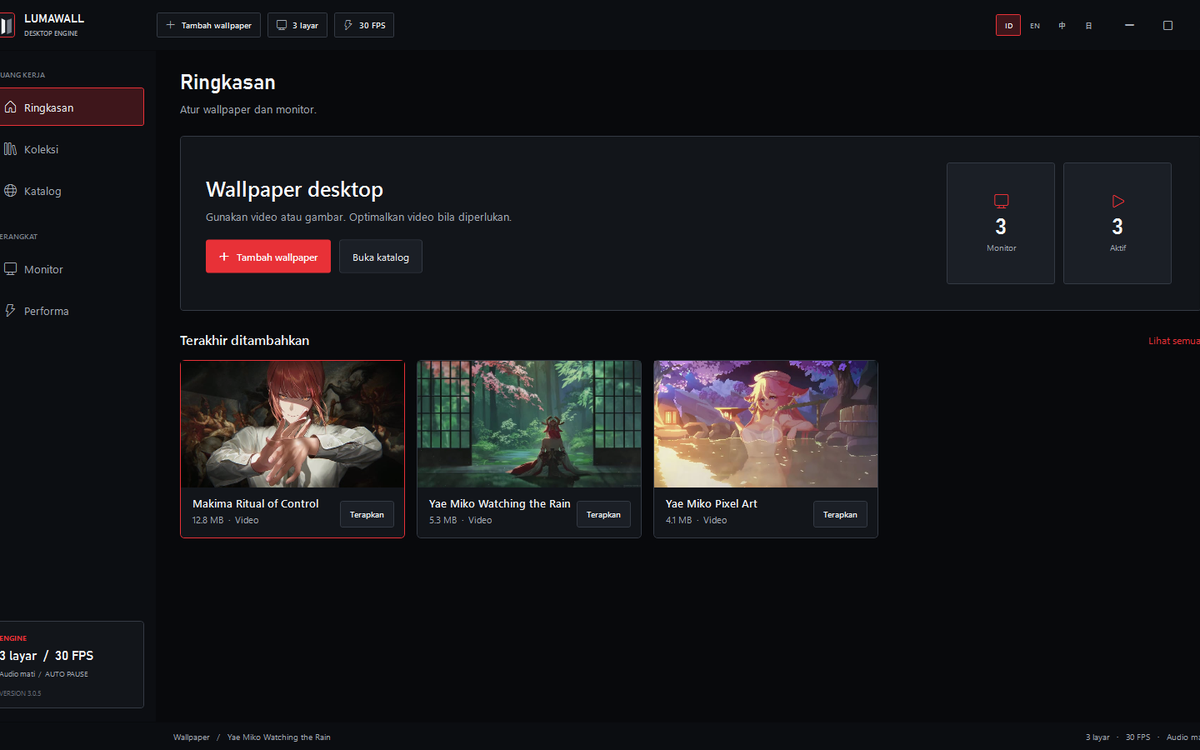
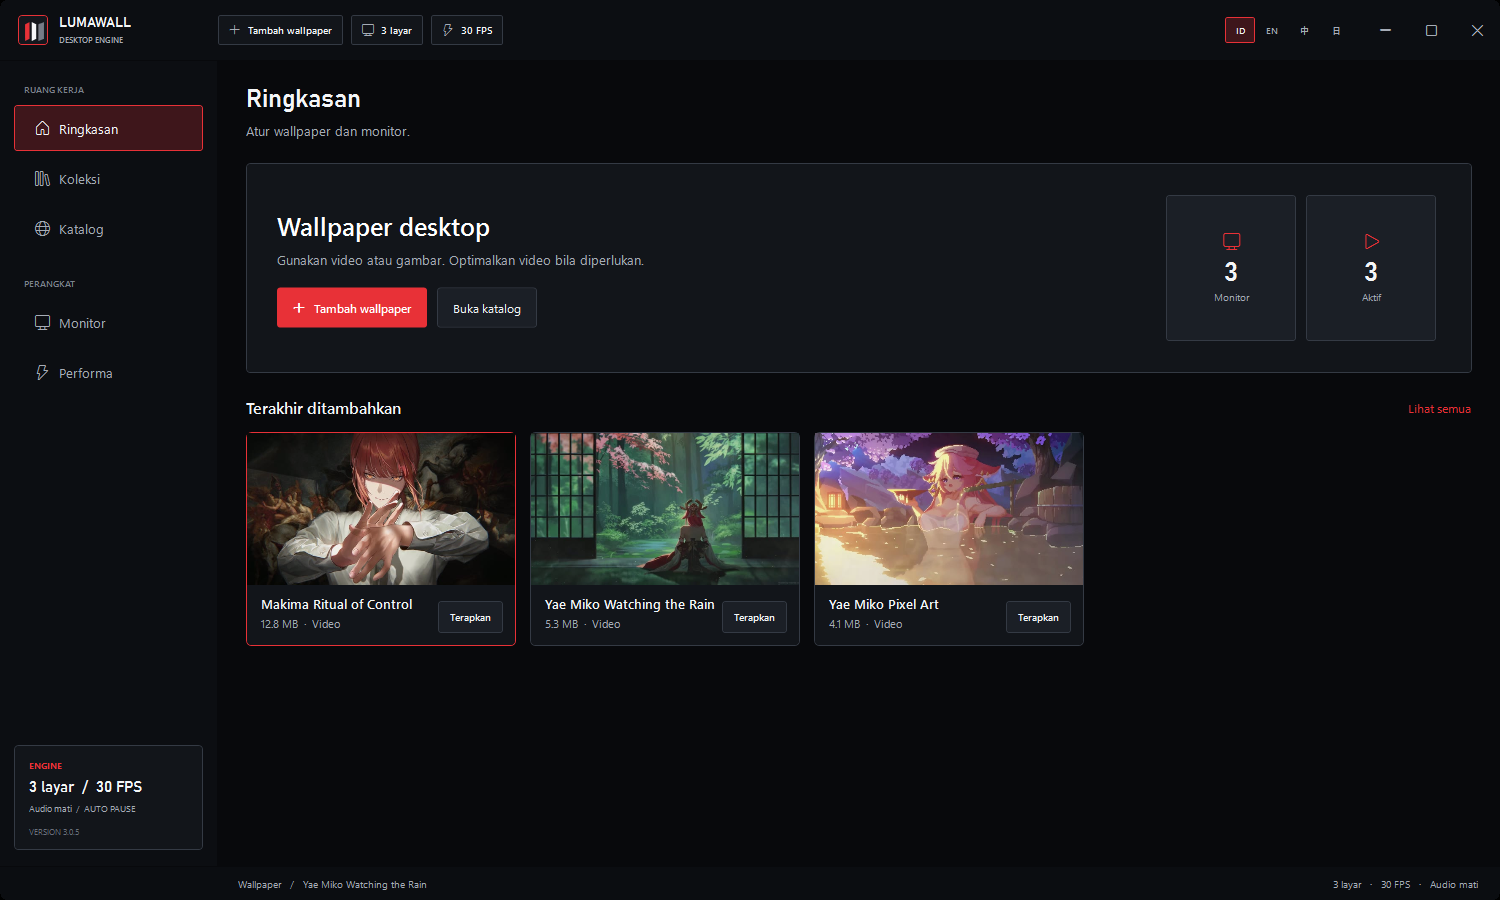
Open products at the top instantly, and fix the LumaWall capture's crop and softness
Two reports, both real, with separate causes.

1. "Opening a product scrolls from bottom to top"

`html { scroll-behavior: smooth }` in globals.css was a global default that
nothing used. Every scroll this site performs already names its own behaviour:
ScrollLink and PendingScroll both call
`scrollIntoView({ behavior: reduce ? "auto" : "smooth" })`. So the only scrolls
the rule affected were ones nobody wrote, and the one that mattered is the scroll
position reset the router performs on a client-side navigation. Measured: opening
a product while scrolled to 5200 animated that reset back to 0 over about 2.6
seconds, through 29 distinct positions in 30 frames — which is exactly the
"scrolls from bottom to top" the user saw.

Removed. The reset is now instantaneous (1-2 distinct positions, landing at 0) on
all five products, and deliberate smooth scrolling still works: clicking an
in-page anchor still animates through 39 positions to its target.

2. "The LumaWall capture is still cropped and low resolution"

Two independent faults in one image.

CROPPED. The capture was 1500x900 (ratio 1.667) and I had forced it into the
1200x750 (1.6) the other tiles use, by scaling to cover and centre-cropping. That
cut 4% off both sides, and measuring the content bounds confirmed the app's left
and right edges were being sliced. Everywhere else on this site the rule is
`object-contain` so product UI is never cut, so this one file was breaking the
[…]

diff --git a/src/components/projects/project-detail-view.tsx b/src/components/projects/project-detail-view.tsx
@@ -324,7 +324,12 @@ export function ProjectDetailView({
               </ScrollReveal>
             </div>
 
-            <div className={cn("grid gap-6", detail.gallery.length > 1 && "lg:grid-cols-2")}>
+            <div
+              className={cn(
+                "grid gap-6",
+                detail.gallery.length > 1 ? "lg:grid-cols-2" : "mx-auto max-w-3xl"
+              )}
+            >
               {detail.gallery.map((g, i) => (
                 <Reveal key={g.src} delay={i * 70}>
                   <SpotlightCard
@@ -336,10 +341,24 @@ export function ProjectDetailView({
                       alt={t(g.caption)}
                       title={product.shotTitle}
                       className="relative w-full"
-                      // Half the shell on desktop, full width on mobile. Saying
-                      // "560px" for a 92vw slot made Next request a 3840px
-                      // variant, which is both slow and wasteful.
-                      sizes="(max-width: 1024px) 92vw, 44vw"
+                      // Must match the real layout. The grid is only 2 columns
+                      // when there is more than one capture, so a lone capture
+                      // spans the full shell: measured 1104px wide against the
+                      // 634px that "44vw" claims. Describing it as 44vw made the
+                      // browser pick a candidate sized for the smaller box, and
+                      // the result was then upscaled to fit — visible as blur.
+                      //
+                      // Stated in px for the desktop case rather than vw, because
+                      // the shell is capped, so a wide viewport does not make the
+                      // card any wider than the cap.
+                      // The shell caps at 78rem (1248px) with an 80px gutter each
+                      // side, so content is 1088px, and the card's own padding
+                      // takes 20px twice -> the image paints 1044px wide.
+                      sizes={
+                        detail.gallery.length > 1
+                          ? "(max-width: 1024px) 92vw, (max-width: 1280px) 45vw, 502px"
+                          : "(max-width: 1024px) 92vw, 728px"
+                      }
                       // 95, not the default 75 — Next re-encodes at the
                       // requested quality, and 75 visibly softens UI text.
                       quality={95}

diff --git a/src/app/globals.css b/src/app/globals.css
@@ -74,7 +74,19 @@
 
   html {
     -webkit-text-size-adjust: 100%;
-    scroll-behavior: smooth;
+    /* No `scroll-behavior: smooth` here on purpose.
+     *
+     * It was a global default that nothing used: every scroll this site performs
+     * already names its own behaviour, via
+     * `scrollIntoView({ behavior: reduce ? "auto" : "smooth" })` in ScrollLink
+     * and PendingScroll. So the only scrolls the rule affected were ones nobody
+     * wrote — including the one the router performs when a client-side
+     * navigation resets the scroll position. Measured: opening a product while
+     * scrolled to 5200 animated that reset back to 0 over about 2.6 seconds,
+     * which reads as the new page scrolling from bottom to top.
+     *
+     * Removing it makes the reset instant while leaving every deliberate smooth
+     * scroll intact, because those ask for smoothness explicitly. */
     scroll-padding-top: calc(var(--x-nav-h) + 1rem);
   }
 
